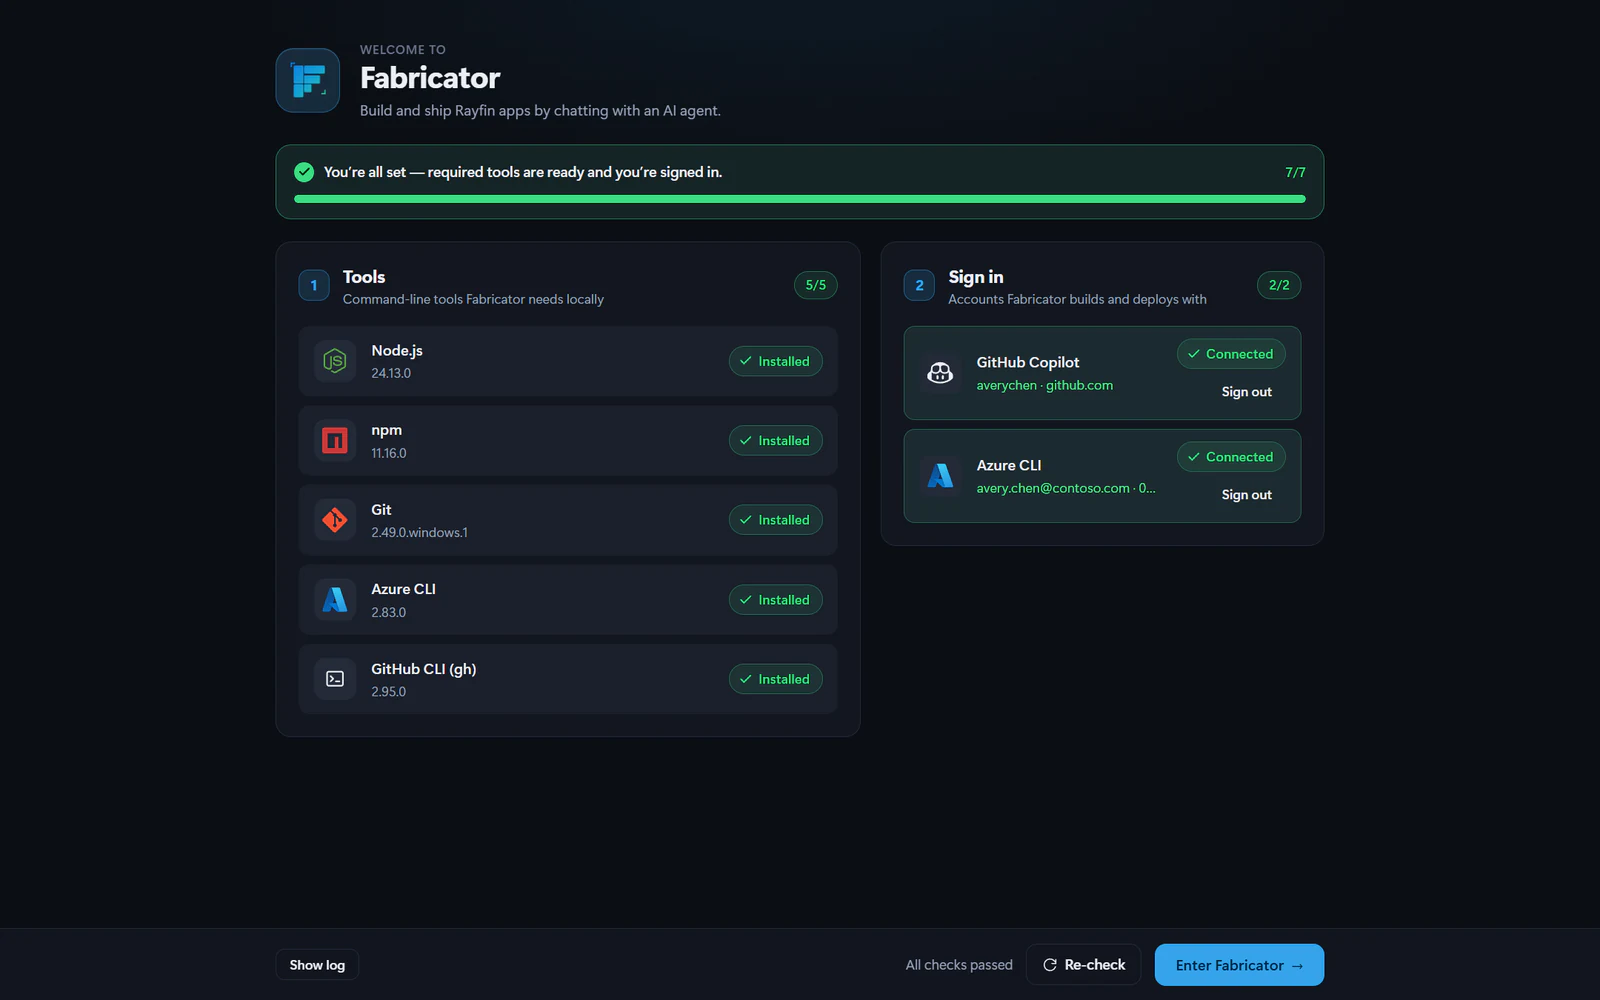
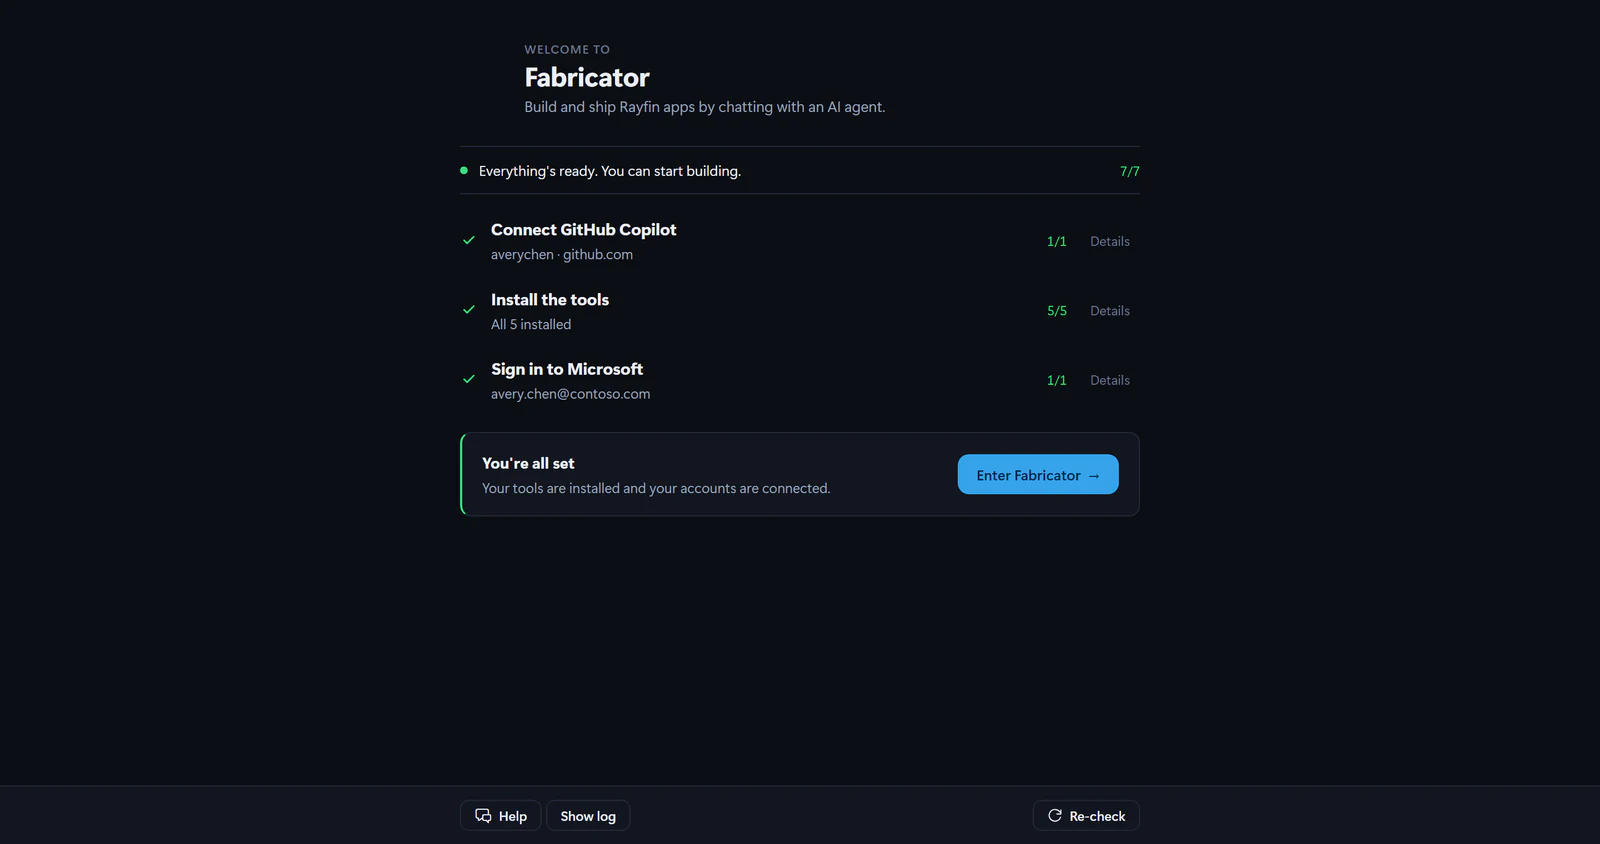
Update the docs screenshots for the new setup screen, and add one for Help
The setup screenshot still showed the old two-column layout: Tools and
Sign in side by side, five green "Installed" pills, Enter Fabricator in
the toolbar. None of that is on screen any more, so the page described one
thing and pictured another.

Recaptured against the current screen: three ordered steps collapsed to
receipts, and the "You're all set" block that now carries Enter Fabricator.

Help shipped in this release without a screenshot at all, which is a poor
showing for the headline feature — it is hard to describe a full-screen
terminal-style assistant in prose. Added one, and a card for it on the
docs landing page so it is findable from the front door.

Both are rendered from the app's own components through the harness, with
sample data, so there is no personal data to scrub and they can be
recaptured deterministically. Two shots added there: `setup`, which can't
be reached live on a healthy machine because setup auto-enters when
everything passes, and `help`, which needs a conversation to show anything.

Also documented two behaviours that shipped undocumented: Help is
available during setup once Copilot is connected (with a reduced set of
actions, since the workbench isn't running), and asking for something that
doesn't exist yet produces a feature request rather than a bug report.

Validation: check:docs (45 pages), build, verify:app-links (10 links),
verify:agent (45 mirrors) all pass.

Copilot-Session: 60623275-7820-4407-8468-0e9f863c42e9

diff --git a/scripts/docs-screenshots/harness/docs-harness.tsx b/scripts/docs-screenshots/harness/docs-harness.tsx
@@ -8,16 +8,22 @@ import './assets/main.css'
 import { useEffect, type ReactNode } from 'react'
 import ReactDOM from 'react-dom/client'
 import type {
+  AuthStatus,
   ChatPlanArtifact,
+  DoctorReport,
   RayfinVersionInfo,
   SecretsState,
   SkillInfo,
   StudioProject,
   TeamResourceRequest,
-  TeamSessionStatus
+  TeamSessionStatus,
+  ToolStatus
 } from '@shared/ipc'
 import { OverlayProvider } from './overlay'
+import { ToastProvider } from './toast'
 import { applyTheme } from './theme'
+import SetupScreen from './screens/SetupScreen'
+import { HelpView } from './components/help/HelpView'
 import TeamMapView from './components/team/map/TeamMapView'
 import { sampleMap, sampleResources, sampleRun, sampleWorkspace } from './components/team/map/fixtures'
 import TeamPublishControl from './components/team/TeamPublishControl'
@@ -29,6 +35,17 @@ import SecretsView from './components/SecretsView'
 import './components/chat/chat.css'
 
 const ok = <T,>(value: T) => (): Promise<T> => Promise.resolve(value)
+
+const tool = (id: string, name: string, version: string): ToolStatus => ({
+  id: id as ToolStatus['id'],
+  name,
+  found: true,
+  satisfied: true,
+  version,
+  installHint: '',
+  autoInstallable: true,
+  required: true
+})
 
 const builtIn = (id: string, title: string, description: string, category: string, active = false): SkillInfo => ({
   id,
@@ -184,6 +201,16 @@ function installApi(): void {
       fabricAccess: ok({ ok: true, people: [] }),
       diff: ok({ ok: true, truncated: false, files: [] }),
       onProgress: () => () => {}
+    },
+    help: {
+      grounding: ok(groundedHelp),
+      prepare: ok(groundedHelp),
+      loadHistory: ok(helpConversation),
+      saveHistory: ok(undefined),
+      clearHistory: ok(undefined),
+      cancel: ok(undefined),
+      onEvent: () => () => {},
+      ask: ok({ text: '', actions: [], citations: [], elapsedMs: 0 })
     }
   }
   const fallback = (target: Record<string, unknown>): unknown =>
@@ -287,6 +314,63 @@ const plan: ChatPlanArtifact = {
     { todoId: 'sample-data', dependsOn: 'expense-status' }
   ],
   questions: []
+}
+
+/** A completed setup: every tool installed, both accounts connected. */
+const setupDoctor: DoctorReport = {
+  ready: true,
+  tools: [
+    tool('node', 'Node.js', '24.13.0'),
+    tool('npm', 'npm', '11.16.0'),
+    tool('git', 'Git', '2.49.0'),
+    tool('az', 'Azure CLI', '2.83.0'),
+    { ...tool('gh', 'GitHub CLI (gh)', '2.95.0'), required: false }
+  ]
+}
+
+const setupAuth: AuthStatus = {
+  copilot: { signedIn: true, user: 'averychen', host: 'github.com' },
+  rayfin: { signedIn: true, user: 'avery.chen@contoso.com' },
+  az: { signedIn: true, user: 'avery.chen@contoso.com' }
+}
+
+const groundedHelp = { sourceReady: true, docsReady: true, reference: 'v1.11.0', pinned: true }
+
+/**
+ * One finished Help exchange: a deploy that failed, diagnosed from the journal
+ * and the docs, with the button that fixes it. `savedAt` is empty so the shot
+ * doesn't show the "picking up where you left off" seam.
+ */
+const helpConversation = {
+  savedAt: '',
+  data: [
+    {
+      id: 'ask-1',
+      question: 'why did my deploy fail?',
+      attachments: [],
+      answer:
+        'Your Fabric sign-in expired part way through the deploy, so Fabricator could not upload the app.\n\n' +
+        'The deploy stopped with "The access token has expired". Contoso Expenses is still running on the version you deployed on Tuesday — nothing was lost.\n\n' +
+        '1. In the account menu, select **Refresh Fabric authentication** and finish signing in.\n' +
+        '2. In the app bar, select **Redeploy**.\n\n' +
+        'If it stops again at the same point, the workspace may no longer be assigned to a Fabric capacity. ' +
+        'See [Deploy problems](https://spatney.github.io/rayfin-fabricator/docs/troubleshooting/deploy).',
+      tools: [
+        { id: 't1', name: 'read', title: 'Read the activity journal', status: 'done' },
+        { id: 't2', name: 'grep', title: 'Searched the documentation for "access token has expired"', status: 'done' },
+        { id: 't3', name: 'read', title: 'Read troubleshooting/deploy', status: 'done' }
+      ],
+      actions: [{ id: 'refresh-fabric-auth', label: 'Refresh Fabric authentication' }],
+      citations: [
+        {
+          title: 'Deploy problems',
+          url: 'https://spatney.github.io/rayfin-fabricator/docs/troubleshooting/deploy'
+        }
+      ],
+      status: 'done',
+      elapsedMs: 6300
+    }
+  ]
 }
 
 /** Clicks `selector` once the shot has rendered, to open a menu or popover. */
@@ -400,6 +484,18 @@ function Shot({ id }: { id: string | null }): JSX.Element {
           />
         </SelectSecret>
       )
+    case 'setup':
+      return (
+        <SetupScreen
+          doctor={setupDoctor}
+          auth={setupAuth}
+          refreshing={false}
+          onRefresh={noopAsync}
+          onEnter={noop}
+        />
+      )
+    case 'help':
+      return <HelpView onClose={noop} onAction={noop} onReportIssue={noop} appVersion="1.11.0" />
     default:
       return <p style={{ padding: 24 }}>Unknown shot: {String(id)}</p>
   }
@@ -409,8 +505,10 @@ installApi()
 applyTheme('dark')
 ReactDOM.createRoot(document.getElementById('root') as HTMLElement).render(
   <OverlayProvider>
-    <div style={{ height: '100vh', display: 'flex', flexDirection: 'column' }}>
-      <Shot id={new URLSearchParams(location.search).get('shot')} />
-    </div>
+    <ToastProvider>
+      <div style={{ height: '100vh', display: 'flex', flexDirection: 'column' }}>
+        <Shot id={new URLSearchParams(location.search).get('shot')} />
+      </div>
+    </ToastProvider>
   </OverlayProvider>
 )

diff --git a/website/AGENTS.md b/website/AGENTS.md
@@ -140,7 +140,8 @@ in `.md`.
 | Image | What it shows | Used on |
 | --- | --- | --- |
 | `workbench` | Build view: a finished chat turn and the running sample app in the preview | `/docs`, `/docs/start/tour`, `/docs/start/first-app`, landing page |
-| `setup` | Setup screen with every tool installed and both accounts signed in | `/docs/start/setup` |
+| `setup` | Setup screen with all three steps complete and the `You're all set` block | `/docs/start/setup` |
+| `help` | The Help assistant answering a failed deploy, with its action button and citation | `/docs/troubleshooting/help` |
 | `home` | Home with the project actions and recent projects | `/docs/start/tour`, `/docs/build/projects` |
 | `new-project` | New project screen with a name entered | `/docs/start/first-app`, `/docs/build/projects` |
 | `first-deploy` | The Deploy your app step of a new project | `/docs/start/first-app`, `/docs/ship/deploy` |
